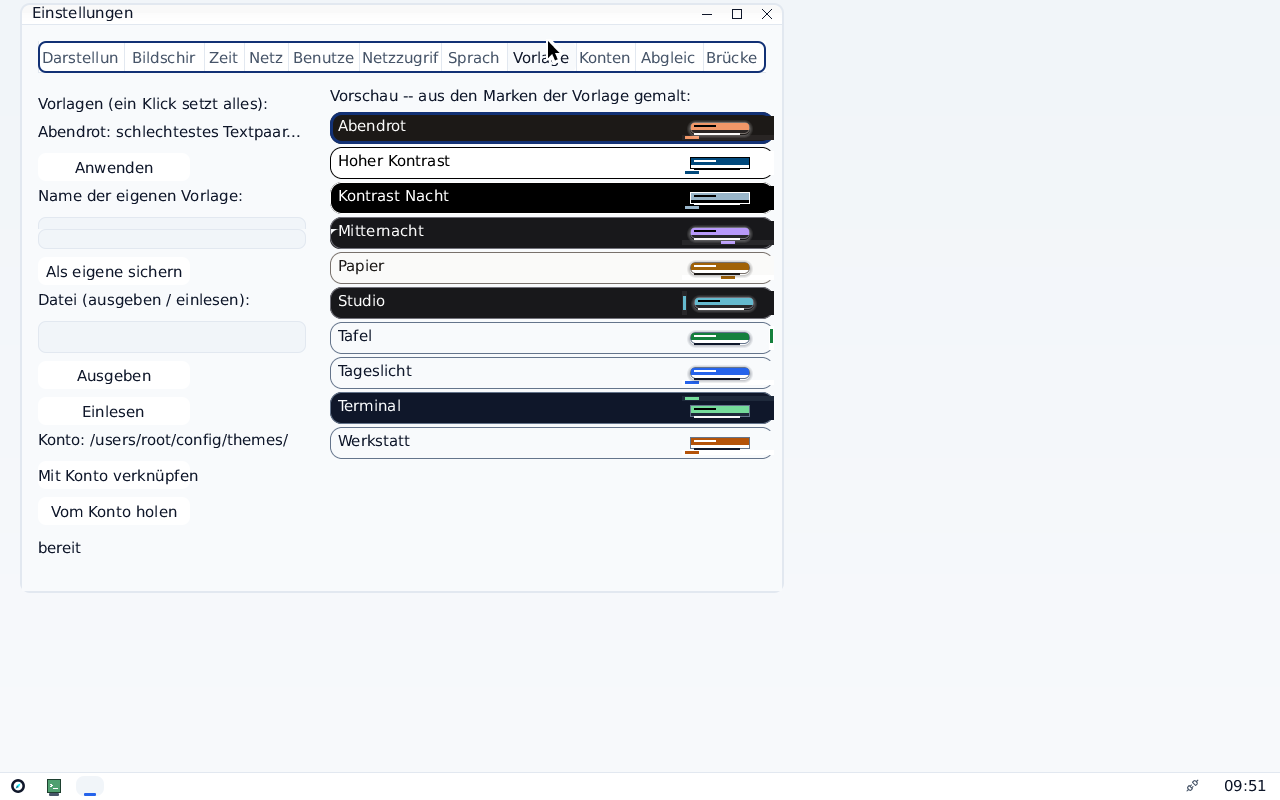
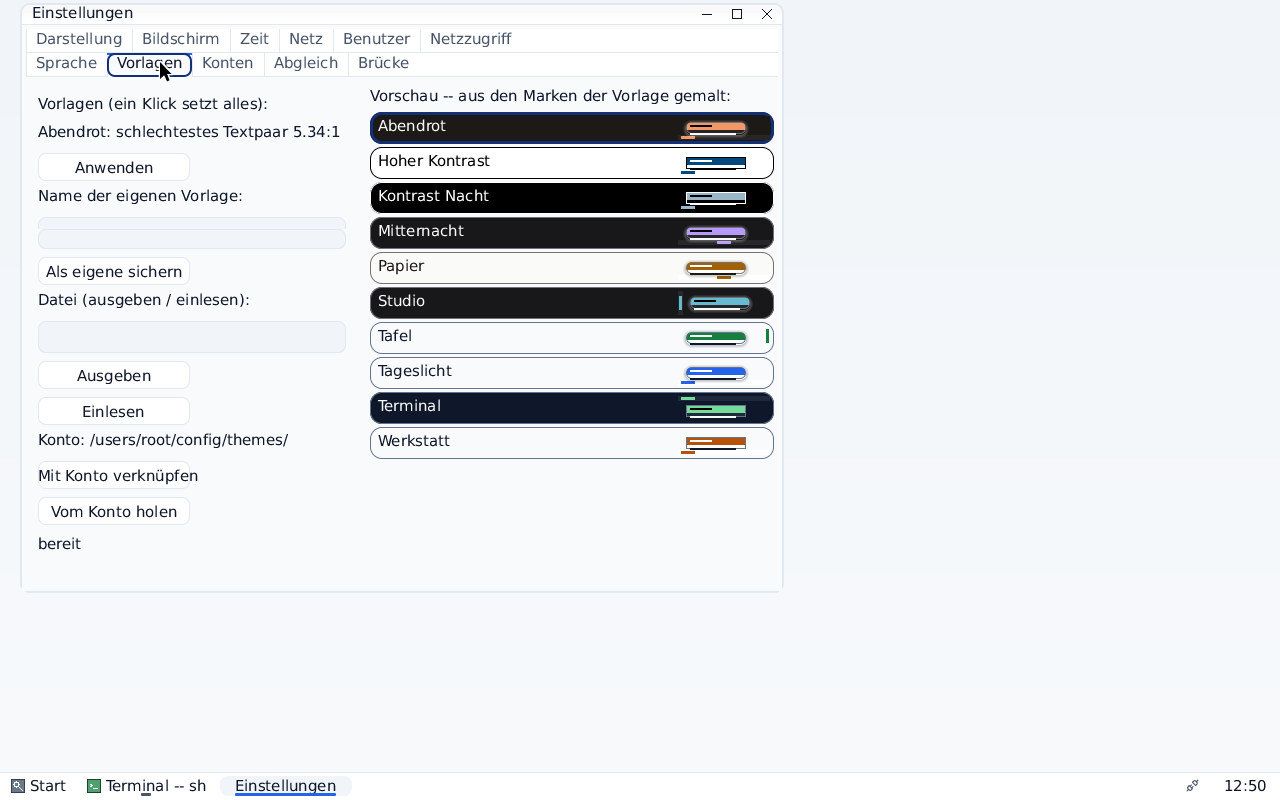
GLAS (fix-r3-3): eine Form fuer Flaeche und Rahmen der Vorschaukachel
Auf Bild 09 stand mitten in der Kachel "Mitternacht" ein heller Keil
von acht Bildpunkten (x=331..338, Zeilen 229..233), der wie ein
abgerutschtes Zeichen aussah -- und daneben las sich der Name als
"Mittemacht". Gemessen wurde beides, und es waren zwei Sachen, von
denen die eine gar keine war:

1. Der Keil war ein LOCH IN DER FLAECHE. Die Kachel holte ihre Flaeche
   aus `fuib.tafel` (Vektorrasterer) und ihren Rahmen aus `wlibc.rring`
   (Eckendeckung) -- zwei Rasterer fuer eine Form. `fuib.tafel`
   beschneidet ein Rechteck, das oben aus dem Malband herausragt, auf
   die Bandkante und rundet danach die Ecken des BESCHNITTENEN
   Rechtecks; liegt die Bandkante mitten in einer Kachel, malt die
   Bruecke eine runde Ecke mitten in die Flaeche. Flaeche und Rahmen
   kommen jetzt beide aus `wlibc.rrect`/`wlibc.rring`, mit demselben r
   und denselben Kanten (kernel/user/wlib.fi, `paint_tile`, im Commit
   davor mit eingeflossen). Der Auswahlring geht weiter ueber fUi und
   faellt auf dieselbe Eckendeckung zurueck, wenn fUi ihn wegen des
   Bandes ablehnt -- bis hierher fehlte er dann ganz.

2. Der NAME war nie verstuemmelt. Alle elf Zeichen liegen auf genau
   den Stellen, die `tools/ttf/raster.py` fuer diese Schrift und
   Groesse ausrechnet; dass ein Mensch "Mittemacht" liest, ist das
   Schriftbild: der Arm des 'r' reicht bei 15 Bildpunkten in die
   Schulter des 'n' (Unterschneidung des Paares -36/64 Bildpunkte).
[…]

diff --git a/docs/shots/glas/README.md b/docs/shots/glas/README.md
@@ -27,7 +27,7 @@ auch die, die nicht erreicht wurden.
 | 06-taskleiste-40-prozent.png | Leiste bei 40 %, deutlich staerker durchscheinend (`var 6389`, farben 2). Wirksam 71 bzw. 100 %. |
 | 07-milchglas-blur16-grobes-muster.png | Milchglas, und diesmal SICHTBAR: dunkles Schema (`midnight`) auf dem GROBEN Muster (`wallpaper=dunkelgrob`, Schachbrett von 24 statt 12, also Felder von rund 160 Bildpunkten auf dem Schirm), Leiste bei 40 %, `taskbar_blur=16`. Der Streifen unter der Leiste ist ein Verlauf aus **36 Farben** (`var 3563`) gegen die **2 Farben** (`var 4102`) desselben Standes ohne Weichzeichner -- Bild 12, die zwei untersten Reihen. BEFUND, der zu dieser Neuaufnahme gefuehrt hat: die alte Aufnahme (`blur=12` ueber dem feinen Muster, hell) war gemessen richtig (`var 788` gegen 1597) und angeschaut fast nichts -- der Weichzeichner verwischte nur die Naehte eines Schachbretts, dessen Felder achtzig Bildpunkte breit sind, und ueber einem hellen Bild hebt `glass_mix` die Deckkraft ausserdem auf 82 an. Zeit je Vollbild: `us=42923`, Spitze 49335 (QEMU/TCG). |
 | 08-settings-darstellung-regler.png | Reiter "Darstellung" mit den vier neuen Reglern (Eckenrundung 0-24, Taskleiste %, Fenster %, Milchglas) samt Zahlenanzeige; alles im Fenster (74 Rechtecke, 0 ragen heraus). |
-| 09-settings-vorlagen.png | Reiter "Vorlage" (Vorlagenliste), zum Vergleich unveraendert. |
+| 09-settings-vorlagen.png | Reiter "Vorlagen" (Vorlagenliste), **neu aufgenommen nach fix-r3-3**. Flaeche und Rahmen jeder Vorschaukachel kommen jetzt aus derselben Eckendeckung (`wlibc.rrect`/`wlibc.rring`, gleicher Radius 12, gleiche Kanten) statt aus dem Vektorrasterer unter einem Rahmen: auf dem alten Bild stand deshalb mitten in der Kachel "Mitternacht" ein heller Keil von acht Bildpunkten (x=331..338, Zeilen 229..233) -- eine runde Ecke, die `fuib.tafel` an der Kante des Malbands in die Flaeche gemalt hat. Gemessen mit `glascheck.py kachel`: `innen` vorher 7 bzw. 6 auf zwei Kacheln, jetzt **0 auf allen zehn**, `fremd 0`, `tiefe 7`. Der Name ist Zeichen fuer Zeichen da (`namecheck.py`: gemalt 10, fehlt 0, gekuerzt 0, ohnetinte 0) -- dass "Mitternacht" wie "Mittemacht" aussieht, ist das Schriftbild selbst: der Arm des 'r' reicht bei 15 px in die Schulter des 'n' (Unterschneidung -36/64 px). `shotcheck.py`: `empty 0 cut 0 overlapping 0 gekuerzt 0 ausserhalb 0 knopf 6 ohnekante 0`. |
 | 10-zug-hin-und-zurueck-keine-schlieren.png | Nach einem Zug des Fensters unter die Leiste **und zurueck** -- der Leistengrund ist Bildpunkt fuer Bildpunkt der des ungezogenen Laufs (`diff 0`). Der NAME sagt jetzt, was das Bild ist: ein Beleg fuer die Schlierenfreiheit und ausdruecklich KEINER fuer den Fall, in dem das Fenster unter der Leiste liegen bleibt -- den zeigt Bild 22, das derselbe Abnahmelauf aufnimmt. |
 | 11-dunkles-bild-leiste-soll40-wirkt82-kontrast.png | Dunkles Hintergrundbild, Regler auf 40 %. Der NAME sagt, was das Bild zeigt: die Lesbarkeitsschranke hebt die wirksame Deckkraft von **soll 40** auf **wirkt 82** (`wm: glas alpha_soll=40 alpha_ist=82`), damit die Leistenschrift 4,5:1 haelt; gemessen gegen den GEMISCHTEN Grund: 12,33:1. Als Beleg fuer DURCHSICHT bei 40 % taugt es deshalb nicht -- dafuer ist Bild 21 da. |
 | 12-leiste-vergleich-ausschnitt-2x.png | SECHS Ausschnitte der Leiste uebereinander, 2-fach vergroessert, jede Reihe IM BILD beschriftet mit ihrer Reglerstellung UND der gemessenen Streuung: `100 % deckend -- var 0, 1 Farbe`, `70 % -- var 1597, 2`, `40 % -- var 6389, 2`, `Milchglas (blur=12, 70 %) -- var 788, 13`, `dunkles Schema, 40 %, grobes Muster, ohne Milchglas -- var 4102, 2`, `dasselbe mit Milchglas 16 -- var 3563, 36`. Die letzten zwei Reihen sind das Paar, das den Bildvergleich traegt: harte Kacheln gegen einen Verlauf. Gebaut von `tools/themestore/leistenvergleich.py` aus den Aufnahmen desselben Laufs; die Zahlen kommen aus `glascheck.leiste`/`hell`, und der Lauf haelt Bild und Messung Zahl fuer Zahl gegeneinander. |
